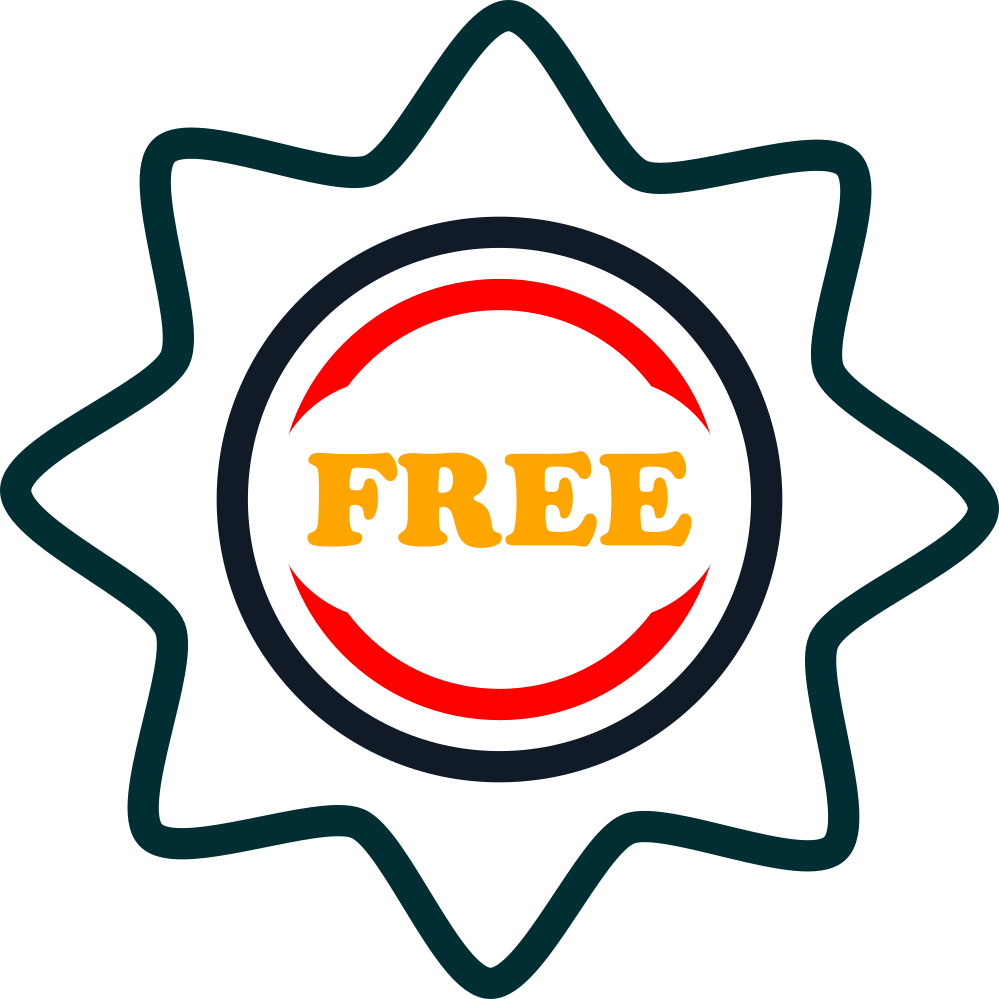
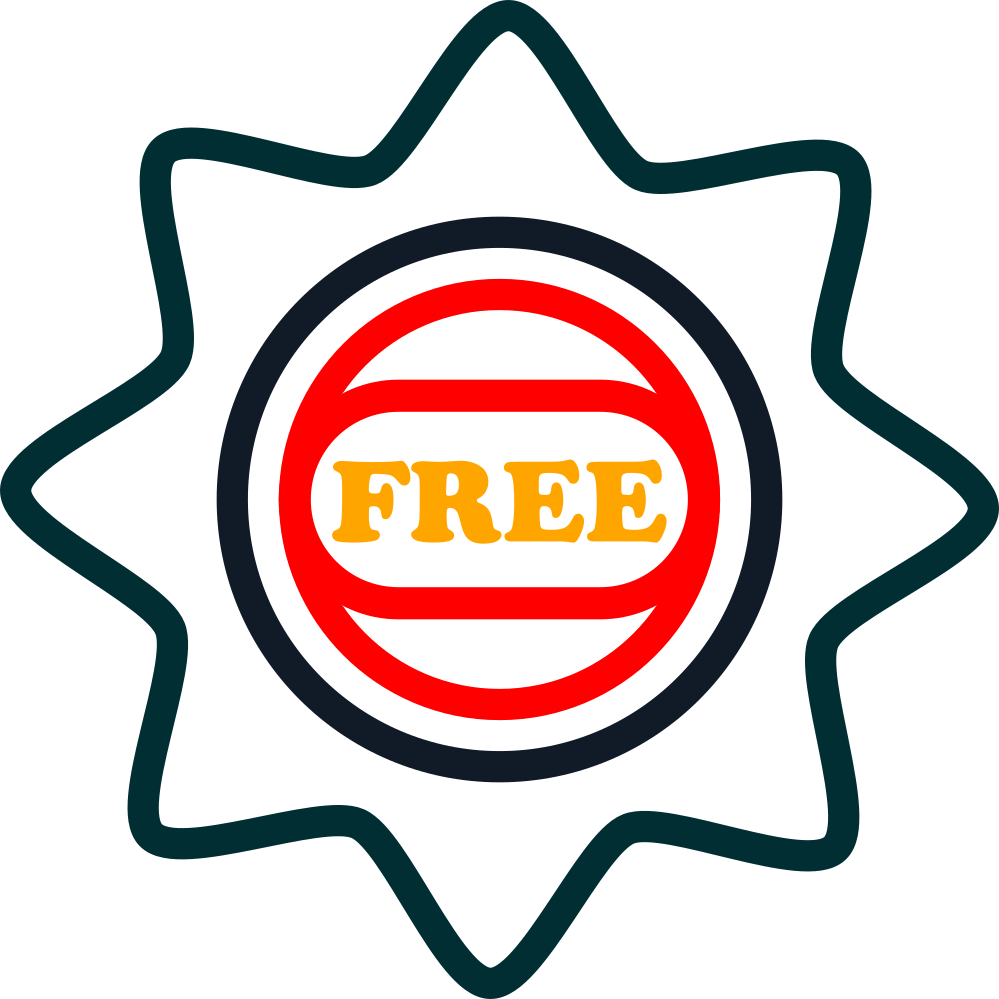
Edited api fetch request options, update free image on index page

Changed region(s): [[0.2793, 0.3724, 0.7447, 0.6206]]

diff --git a/services/apiService.js b/services/apiService.js
@@ -8,8 +8,13 @@ export default class ApiService {
         try {
             const res = await fetch(this.apiBaseUrl + url, {
                 method: "POST",
-                headers: { "content-type": "application/json" },
+                headers: {
+                    "content-type": "application/json",
+                    accept: "application/json",
+                },
+                mode: "cors",
                 credentials: "include",
+                withCredentials: true,
                 body: JSON.stringify({
                     ...bodyParams,
                     apiKey: this.apiKey,
